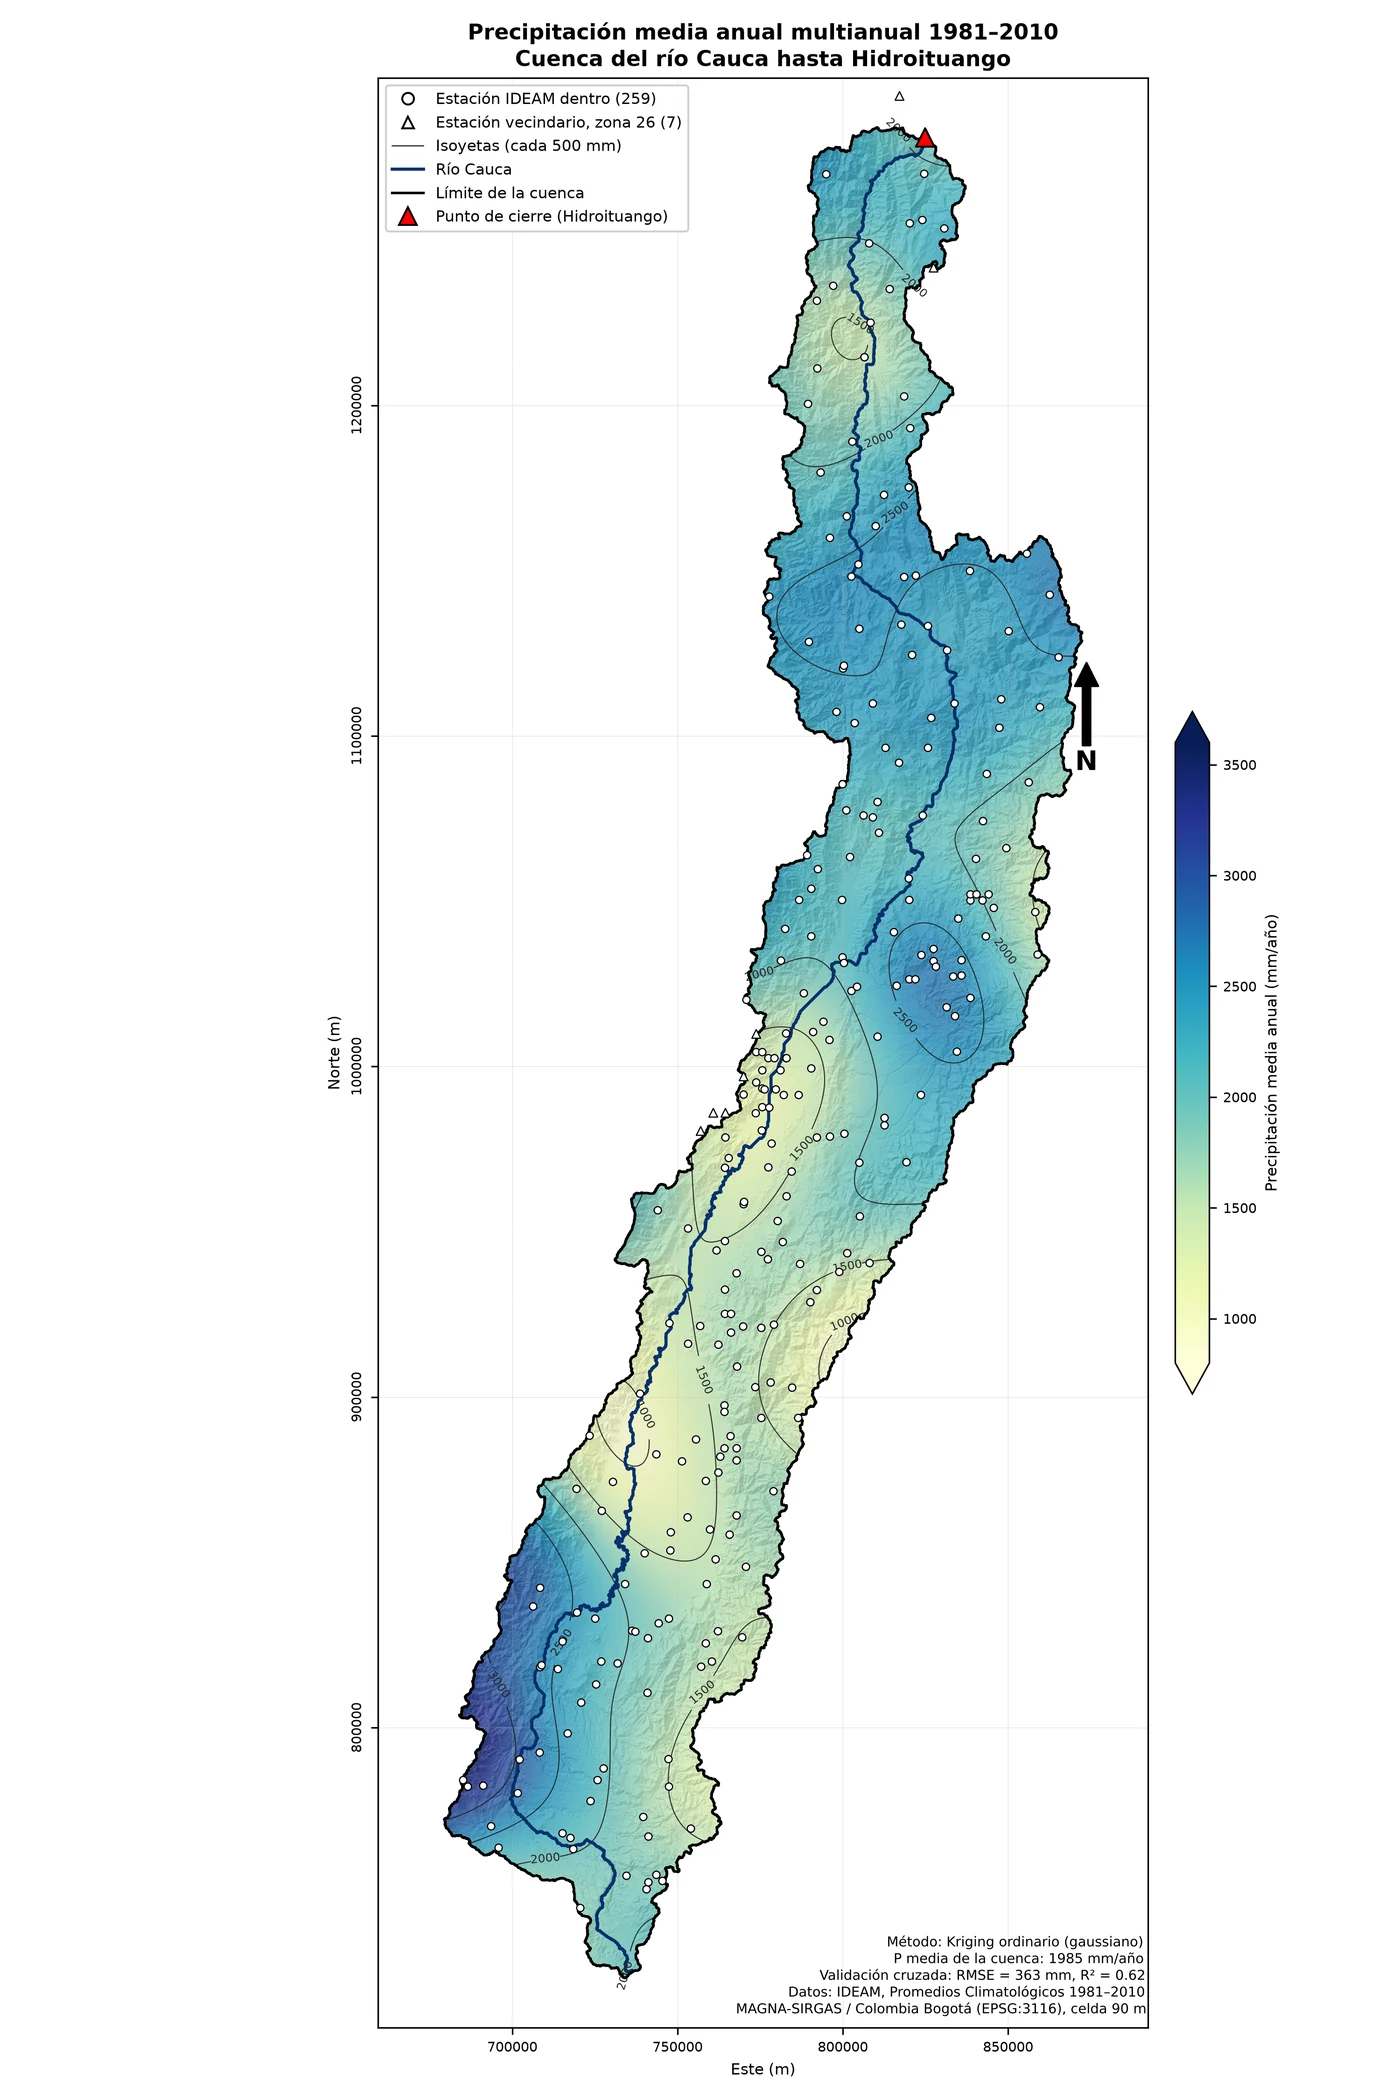
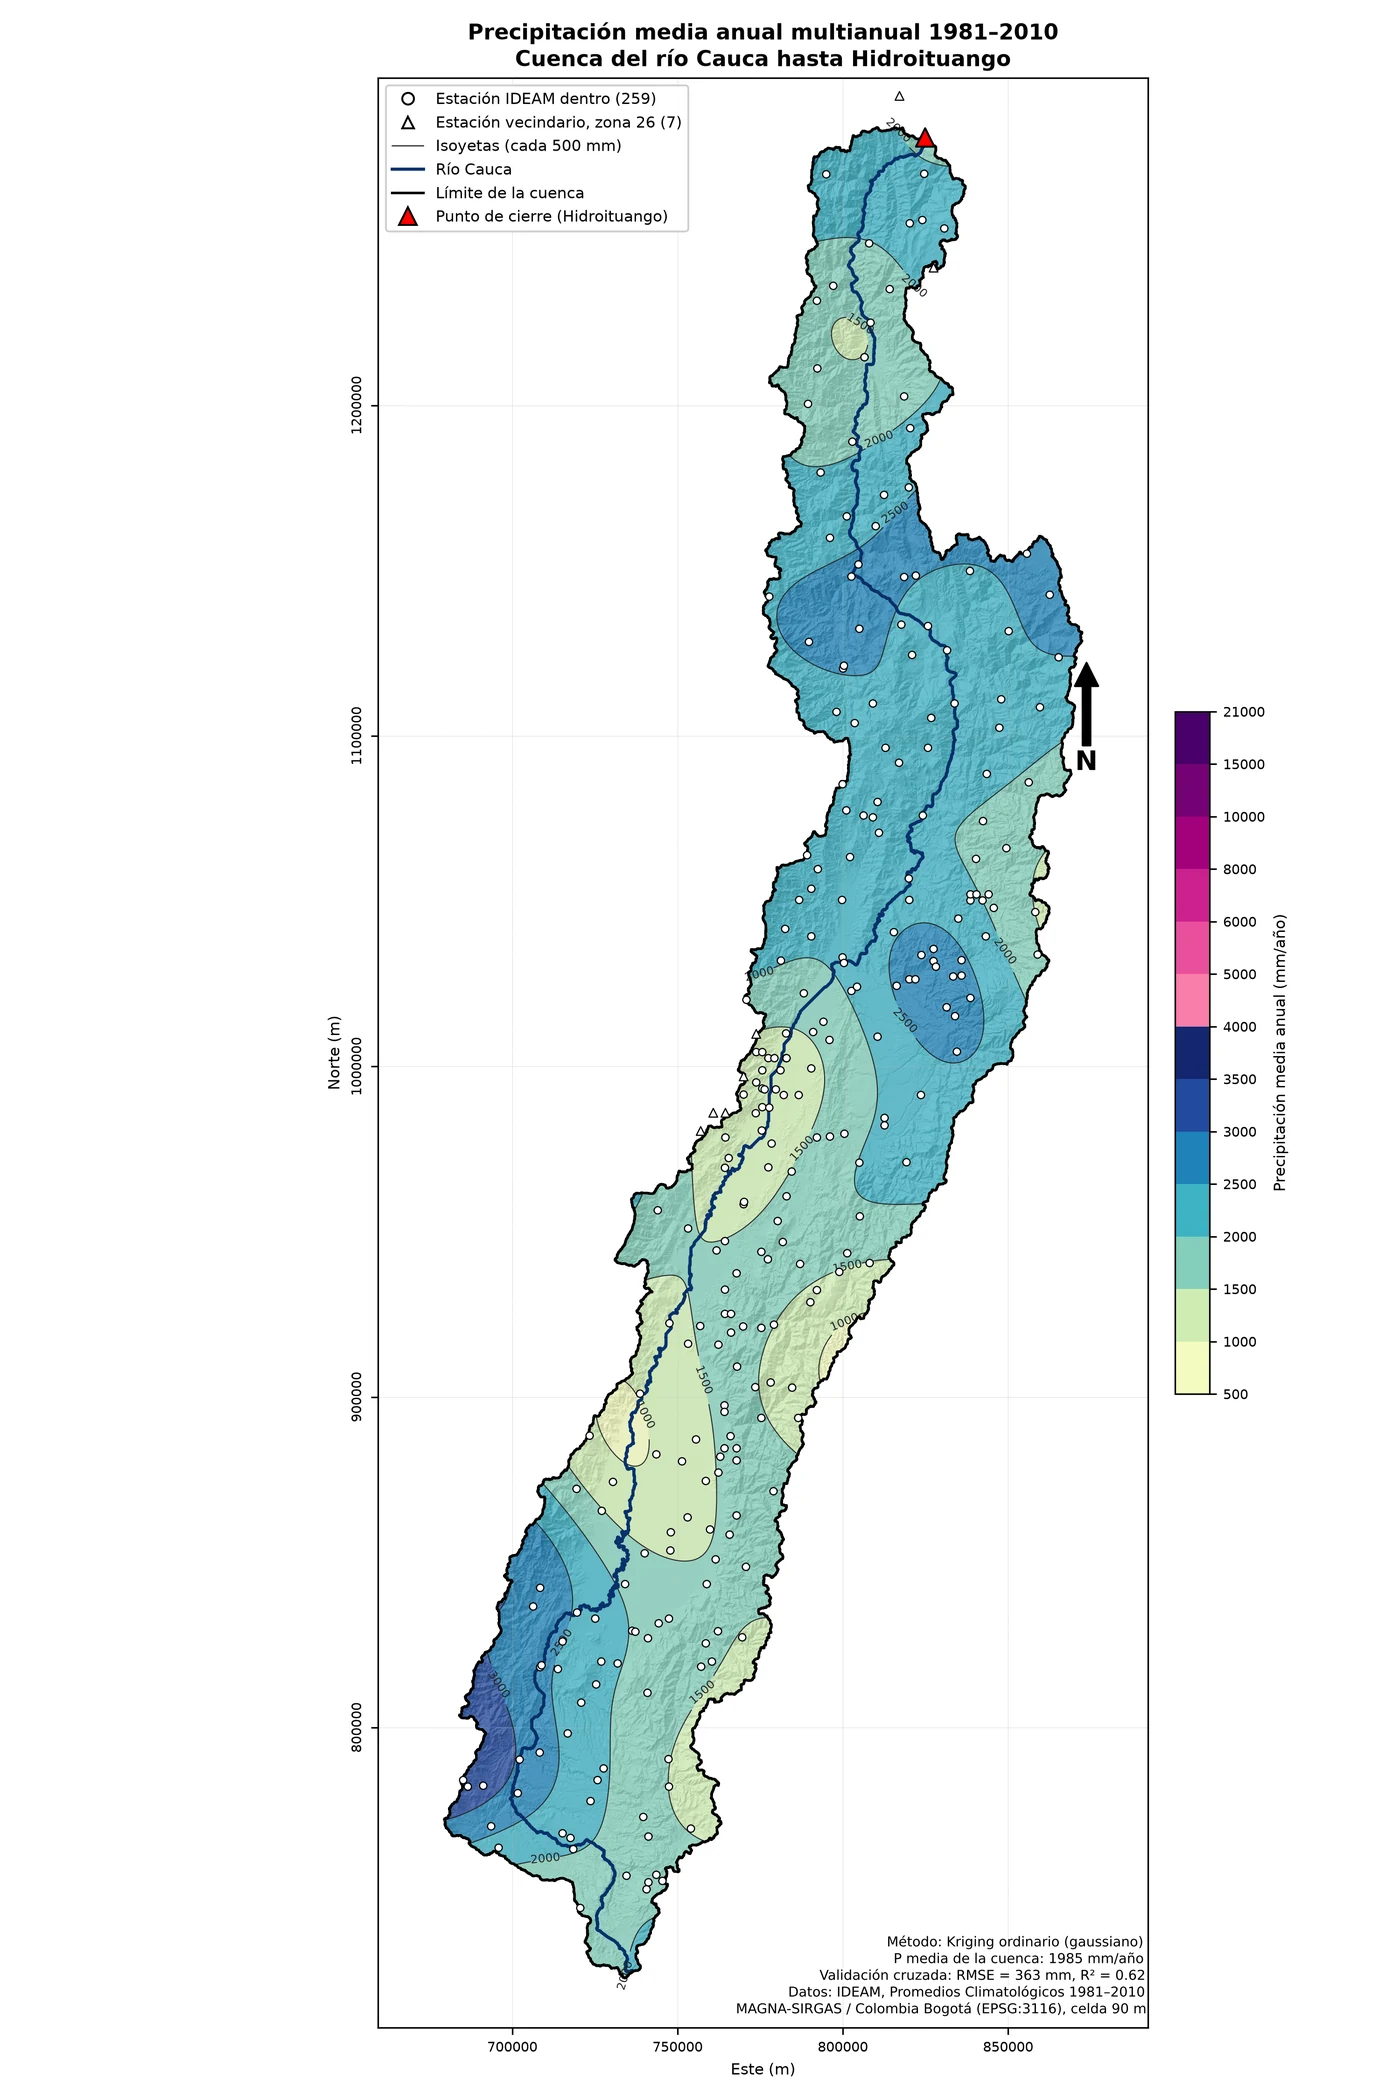
Escala de color común por variable en todos los mapas
- Precipitación anual: misma paleta y clases en IDEAM, CHIRPS, ERA5-Land, ERA5 y sensibilidad v2/v3
  (500–4000 mm amarillo→azul; > 4000 mm, sólo reanálisis, en morados)
- Precipitación mensual: los 12 mapas pasan a la misma paleta que la anual
- ETP y ETR comparten escala; R con escala común en los puntos 7 y 12

diff --git a/index.html b/index.html
@@ -251,7 +251,7 @@ frente a la elección del producto.</p>
 <h3>Metodología</h3>
 <p>Para cada producto se sumaron los 12 meses de cada año y se promediaron los 30 años de 1981–2010 en su grilla original. Luego cada
 celda de 90 m de la cuenca tomó el valor de la celda del producto que la contiene (vecino más cercano, sin suavizar).</p>
-<h3>Decisiones</h3><ul class='dec'><li><b>Sin interpolar los productos.</b> el mapa muestra la resolución real de cada uno (5.5, 11 y 28 km); suavizar daría un detalle que el producto no tiene</li><li><b>Misma grilla de 90 m que la ETP.</b> el punto 12 repite el balance celda a celda cambiando sólo la precipitación</li><li><b>Escala de color común con clases.</b> permite comparar magnitudes entre productos que van de 1000 a más de 10 000 mm/año</li></ul>
+<h3>Decisiones</h3><ul class='dec'><li><b>Sin interpolar los productos.</b> el mapa muestra la resolución real de cada uno (5.5, 11 y 28 km); suavizar daría un detalle que el producto no tiene</li><li><b>Misma grilla de 90 m que la ETP.</b> el punto 12 repite el balance celda a celda cambiando sólo la precipitación</li><li><b>Escala de color común por variable.</b> la misma paleta y clases en todos los mapas de P anual del trabajo (puntos 3, 11 y 12); de 500 a 4000 mm amarillo→azul y sobre 4000 mm (sólo los reanálisis, hasta 20 000 mm) morados, para no perder el detalle de las estaciones</li></ul>
 <div class='tw'><table><caption>Comparación con la precipitación de estaciones IDEAM</caption><thead><tr><th>1981–2010</th><th>P media (mm/año)</th><th>Mínimo (mm/año)</th><th>Máximo (mm/año)</th><th>Diferencia con IDEAM (%)</th><th>Correlación espacial con IDEAM</th></tr></thead><tbody><tr><th>IDEAM (kriging)</th><td class='n'>1 985</td><td class='n'>872</td><td class='n'>3 441</td><td class='n'>+0</td><td class='n'>1.00</td></tr><tr><th>CHIRPS v2.0</th><td class='n'>2 026</td><td class='n'>1 030</td><td class='n'>3 700</td><td class='n'>+2</td><td class='n'>0.89</td></tr><tr><th>ERA5-Land</th><td class='n'>5 961</td><td class='n'>1 681</td><td class='n'>20 177</td><td class='n'>+200</td><td class='n'>-0.06</td></tr><tr><th>ERA5</th><td class='n'>5 976</td><td class='n'>1 833</td><td class='n'>18 313</td><td class='n'>+201</td><td class='n'>-0.06</td></tr></tbody></table></div>
 <h3>Análisis</h3>
 <p><b>CHIRPS</b> reproduce el patrón de las estaciones (correlación espacial 0.89) y su
@@ -309,7 +309,7 @@ ser la versión publicada y porque cierra el balance con los caudales observados
 </div><div>
 <div class='tw'><table><caption>CHIRPS v2.0 (principal) frente a v3.0 (Drive del curso), 1981–2010</caption><thead><tr><th>CHIRPS v2.0 (principal) frente a v3.0 (Drive del curso)</th><th>CHIRPS v2.0</th><th>CHIRPS v3.0</th></tr></thead><tbody><tr><th>P media cuenca (mm/año)</th><td class='n'>2 026.22</td><td class='n'>2 201.77</td></tr><tr><th>Diferencia con IDEAM (%)</th><td class='n'>2.07</td><td class='n'>10.91</td></tr><tr><th>Correlación espacial con IDEAM</th><td class='n'>0.89</td><td class='n'>0.89</td></tr><tr><th>ETR cuenca (mm/año)</th><td class='n'>1 096.55</td><td class='n'>1 117.67</td></tr><tr><th>Q estimado cierre (mm/año)</th><td class='n'>929.67</td><td class='n'>1 084.10</td></tr><tr><th>Error en el cierre (%)</th><td class='n'>-2.16</td><td class='n'>14.10</td></tr><tr><th>Error abs. medio estaciones (%)</th><td class='n'>5.34</td><td class='n'>24.27</td></tr><tr><th>Rango de error estaciones (%)</th><td>-4 a +10</td><td>+15 a +32</td></tr><tr><th>Ciclo: sesgo (mm/mes)</th><td class='n'>2.37</td><td class='n'>17.00</td></tr><tr><th>Ciclo: RMSE (mm/mes)</th><td class='n'>4.77</td><td class='n'>17.82</td></tr><tr><th>Ciclo: r</th><td class='n'>1.00</td><td class='n'>1.00</td></tr></tbody></table></div>
 </div></div>
-<figure class='fig'><button type='button' class='zoom' data-src='img/p12_chirps_v2.webp' aria-label='Ampliar: CHIRPS v3.0 frente a v2.0'><img src='img/p12_chirps_v2.webp' width='2200' height='1711' loading='lazy' alt='CHIRPS v3.0 frente a v2.0'></button><figcaption><b>CHIRPS v3.0 frente a v2.0.</b> Precipitación media anual 1981–2010 de cada versión en su resolución original y diferencia relativa entre ellas.</figcaption></figure></section><section role="tabpanel" id="p13" aria-labelledby="t-p13" hidden><h2>13. Climatología de la precipitación</h2><div class='figs c1'><figure class='fig'><button type='button' class='zoom' data-src='img/p13_panel.webp' aria-label='Ampliar: Precipitación media mensual multianual 1981–2010'><img src='img/p13_panel.webp' width='2400' height='1825' loading='lazy' alt='Precipitación media mensual multianual 1981–2010'></button><figcaption><b>Precipitación media mensual multianual 1981–2010.</b> Kriging ordinario mes a mes con las 266 estaciones IDEAM del punto 3; misma escala de clases en los doce mapas; en el título de cada mapa, la media de la cuenca (P̄m).</figcaption></figure></div><div class='cols'>
+<figure class='fig'><button type='button' class='zoom' data-src='img/p12_chirps_v2.webp' aria-label='Ampliar: CHIRPS v3.0 frente a v2.0'><img src='img/p12_chirps_v2.webp' width='2200' height='1734' loading='lazy' alt='CHIRPS v3.0 frente a v2.0'></button><figcaption><b>CHIRPS v3.0 frente a v2.0.</b> Precipitación media anual 1981–2010 de cada versión en su resolución original y diferencia relativa entre ellas.</figcaption></figure></section><section role="tabpanel" id="p13" aria-labelledby="t-p13" hidden><h2>13. Climatología de la precipitación</h2><div class='figs c1'><figure class='fig'><button type='button' class='zoom' data-src='img/p13_panel.webp' aria-label='Ampliar: Precipitación media mensual multianual 1981–2010'><img src='img/p13_panel.webp' width='2400' height='1825' loading='lazy' alt='Precipitación media mensual multianual 1981–2010'></button><figcaption><b>Precipitación media mensual multianual 1981–2010.</b> Kriging ordinario mes a mes con las 266 estaciones IDEAM del punto 3; misma escala de clases en los doce mapas; en el título de cada mapa, la media de la cuenca (P̄m).</figcaption></figure></div><div class='cols'>
 <p class="lead">Régimen <b>bimodal</b>: dos temporadas de lluvia, marzo–mayo (máximo en abril, 218 mm) y
 septiembre–noviembre (máximo en octubre, 240 mm, el mes más lluvioso), separadas por dos temporadas secas,
 diciembre–febrero (120 mm en febrero) y junio–agosto (114 mm en agosto, el mes
